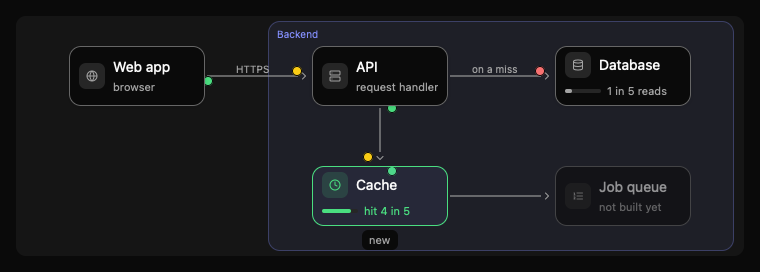
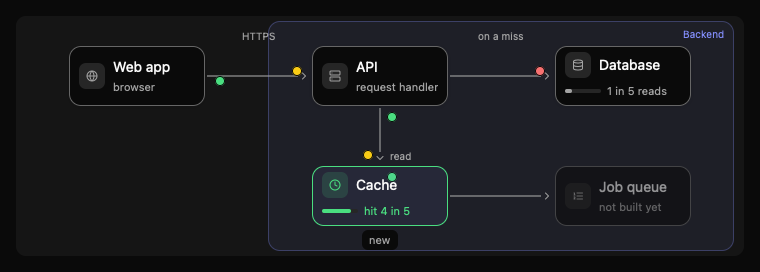
Fix the flow-diagram's link words, token speed, narrow cards and slanted flows
- Every link's word is drawn after the nodes, so no card covers it: above
  the two cards of a level link, beside an upright link near the card it
  points at. Before, an upright link drew no word. A group's label moves
  to its top right, clear of a level word on its left edge.
- A step of a flow is as long as the cells it crosses, so a `speed` in
  cells a second is the same in any grid.
- A card takes at most its size and never more than its cell; in a
  narrow cell its text is cut short, and the tooltip shows the name.
- A flow skips a slanted step, as the link is left out.

diff --git a/crates/moonframe-core/src/tests/flow_diagram.rs b/crates/moonframe-core/src/tests/flow_diagram.rs
@@ -36,16 +36,50 @@ fn keys(children: &[Node]) -> Vec<&str> {
         .collect()
 }
 
-/// The card of node `id`: the middle child of its keyed cell.
+/// The card of node `id`: inside the middle row of its keyed cell.
 fn card<'a>(children: &'a [Node], id: &str) -> &'a Stack {
     let cell = children.iter().find_map(|child| match child {
         Node::Stack(stack) if stack.key.as_deref() == Some(id) => Some(stack),
         _ => None,
     });
-    match cell.map(|cell| &cell.children[1]) {
+    let row = match cell.map(|cell| &cell.children[1]) {
+        Some(Node::Stack(row)) => row,
+        _ => panic!("no cell row for {id}"),
+    };
+    match row.children.first() {
         Some(Node::Stack(card)) => card,
         _ => panic!("no card for {id}"),
     }
+}
+
+/// Every text under `node`, in order.
+fn texts(node: &Node) -> Vec<String> {
+    match node {
+        Node::Text(text) => vec![text.text.clone()],
+        Node::Stack(stack) => stack.children.iter().flat_map(texts).collect(),
+        _ => Vec::new(),
+    }
+}
+
+/// Where each token's centre is, as fractions of the box.
+fn tokens(children: &[Node]) -> Vec<(f32, f32)> {
+    children
+        .iter()
+        .filter_map(|child| match child {
+            Node::Stack(stack) => {
+                let token = stack.children.iter().any(|inner| {
+                    matches!(inner, Node::Stack(dot)
+                        if dot.look.class.iter().any(|class| class == "flow-diagram-token"))
+                });
+                let area = stack.frame.area.as_ref()?;
+                if !token {
+                    return None;
+                }
+                Some((area.left? + 0.03, area.top? + 0.04))
+            },
+            _ => None,
+        })
+        .collect()
 }
 
 fn sent<'a>(card: &'a Stack, key: &str) -> Option<&'a str> {
@@ -84,4 +118,71 @@ fn flow_diagram_a_click_on_a_node_sends_its_id() {
     assert!(!card(&plain, "web").selected);
     let named = diagram(r#"event = "node""#);
     assert_eq!(sent(card(&named, "db"), "node"), Some("db"));
+}
+
+#[test]
+fn flow_diagram_draws_every_link_word_over_the_cards() {
+    let drawn = diagram(
+        r#"links = { { from = "web", to = "api", label = "HTTPS" }, { from = "api", to = "db", label = "SQL" } }"#,
+    );
+    // Both words come after the last card, so no card covers them, and the
+    // word of the upright link is drawn too.
+    let last_cell = drawn
+        .iter()
+        .rposition(|child| matches!(child, Node::Stack(stack) if stack.key.is_some()))
+        .unwrap();
+    let after: Vec<String> = drawn[last_cell + 1..].iter().flat_map(texts).collect();
+    assert_eq!(after, ["HTTPS", "SQL"]);
+}
+
+#[test]
+fn flow_diagram_token_speed_is_the_same_in_any_grid() {
+    // One token from `web` to `api`, neighbours: at 0.5 cells a second it
+    // is half way after one second, however many columns the grid has.
+    let flow =
+        r#"flows = { { path = { "web", "api" }, tokens = { "warning" } } }, time = 1, speed = 0.5"#;
+    for columns in [2.0_f32, 6.0] {
+        let drawn = diagram(&format!("{flow}, columns = {columns}"));
+        let [(x, _)] = tokens(&drawn)[..] else {
+            panic!("expected one token");
+        };
+        let (web, api) = (0.5 / columns, 1.5 / columns);
+        let along = (x - web) / (api - web);
+        assert!((along - 0.5).abs() < 0.01, "{columns} columns: {along}");
+    }
+}
+
+#[test]
+fn flow_diagram_a_card_never_takes_more_than_its_cell() {
+    let drawn = diagram("");
+    let web = card(&drawn, "web");
+    // No fixed width: it grows to its size at most, and narrows in a narrow cell.
+    assert_eq!(web.frame.width, None);
+    assert_eq!(web.frame.max_width, Some(136.0));
+    assert!(web.frame.grow);
+    let small = diagram(r#"size = "small""#);
+    assert_eq!(card(&small, "web").frame.max_width, Some(126.0));
+}
+
+#[test]
+fn flow_diagram_tokens_skip_a_slanted_step() {
+    let slanted =
+        diagram(r#"flows = { { path = { "web", "db" }, tokens = { "warning" } } }, time = 1"#);
+    assert!(
+        tokens(&slanted).is_empty(),
+        "no token on a link that is left out"
+    );
+    // `web` to `db` is slanted and left out; `db` to `api` is upright, in
+    // column 1 of 2: every token stays on it.
+    let mixed = diagram(
+        r#"flows = { { path = { "web", "db", "api" }, tokens = { "warning", "danger", "success" } } }, time = 0.3"#,
+    );
+    let drawn = tokens(&mixed);
+    assert_eq!(drawn.len(), 3);
+    for (x, _) in drawn {
+        assert!(
+            (x - 0.75).abs() < 0.001,
+            "a token left the upright link: {x}"
+        );
+    }
 }

diff --git a/.claude/skills/moonframe-components/SKILL.md b/.claude/skills/moonframe-components/SKILL.md
@@ -1721,19 +1721,19 @@ file_icon { name = "app.go" }
 | --- | --- |
 | `columns` | the grid's width in cells (default: what the nodes use) |
 | `event` | key of the message a click on a node sends, default "select": { select = id } |
-| `flows` | { path = { ids }, tokens = { tones }, lane? }: one token for each tone, spread along the path; `lane` (-1, 0, 1) keeps two flows on one link apart |
-| `groups` | { label, nodes = { ids } }: a tinted box around the cells of its nodes |
+| `flows` | { path = { ids }, tokens = { tones }, lane? }: one token for each tone, spread along the path, skipping a slanted step; `lane` (-1, 0, 1) keeps two flows on one link apart |
+| `groups` | { label, nodes = { ids } }: a tinted box around the cells of its nodes, its label at the top right |
 | `height` | pixels (default 120 for each row) |
-| `links` | { from, to, label? }: two nodes in one row or one column (a slanted link is left out); the head points at `to` |
+| `links` | { from, to, label? }: two nodes in one row or one column (a slanted link is left out); the head points at `to`; `label` shows above a level link and beside an upright one |
 | `nodes` | { id, label, sublabel?, icon?, col, row, tone?, note?, meter? = { text, level?, tone? }, planned? }: `col` and `row` count from 0; `tone` is accent \| success \| warning \| danger |
 | `rows` | the grid's height in cells (default: what the nodes use) |
 | `selected` | the id of the node to show as picked |
-| `size` | small \| normal: the size of a node |
-| `speed` | how far a token goes each second, in cells (default 0.55) |
+| `size` | small \| normal: the most a node takes. In a narrow cell it narrows to fit and cuts its name short (the tooltip shows it whole); below about 170 pixels a column, a level link between neighbours hides under the cards, and only its word shows |
+| `speed` | how far a token goes each second, in cells along its path (default 0.55): the same in any grid |
 | `time` | seconds: where the tokens are. The caller owns the clock |
 | `to` | mod to send the click to, if not the drawing one |
 
-**Styles:** `.flow-diagram` `.flow-diagram-fill-accent` `.flow-diagram-fill-danger` `.flow-diagram-fill-plain` `.flow-diagram-fill-success` `.flow-diagram-fill-warning` `.flow-diagram-group` `.flow-diagram-group-label` `.flow-diagram-head` `.flow-diagram-icon` `.flow-diagram-icon-accent` `.flow-diagram-icon-danger` `.flow-diagram-icon-success` `.flow-diagram-icon-warning` `.flow-diagram-label` `.flow-diagram-line` `.flow-diagram-link-label` `.flow-diagram-meter` `.flow-diagram-meter-text` `.flow-diagram-node` `.flow-diagram-node:hover` `.flow-diagram-node:selected` `.flow-diagram-node-accent` `.flow-diagram-node-danger` `.flow-diagram-node-planned` `.flow-diagram-node-success` `.flow-diagram-node-warning` `.flow-diagram-note` `.flow-diagram-sublabel` `.flow-diagram-text-accent` `.flow-diagram-text-danger` `.flow-diagram-text-plain` `.flow-diagram-text-success` `.flow-diagram-text-warning` `.flow-diagram-token` `.flow-diagram-token-accent` `.flow-diagram-token-danger` `.flow-diagram-token-plain` `.flow-diagram-token-success` `.flow-diagram-token-warning` `.flow-diagram-top` `.flow-diagram-track`
+**Styles:** `.flow-diagram` `.flow-diagram-cell` `.flow-diagram-fill-accent` `.flow-diagram-fill-danger` `.flow-diagram-fill-plain` `.flow-diagram-fill-success` `.flow-diagram-fill-warning` `.flow-diagram-group` `.flow-diagram-group-label` `.flow-diagram-head` `.flow-diagram-icon` `.flow-diagram-icon-accent` `.flow-diagram-icon-danger` `.flow-diagram-icon-success` `.flow-diagram-icon-warning` `.flow-diagram-label` `.flow-diagram-line` `.flow-diagram-link-label` `.flow-diagram-link-label-side` `.flow-diagram-meter` `.flow-diagram-meter-text` `.flow-diagram-node` `.flow-diagram-node:hover` `.flow-diagram-node:selected` `.flow-diagram-node-accent` `.flow-diagram-node-danger` `.flow-diagram-node-planned` `.flow-diagram-node-success` `.flow-diagram-node-warning` `.flow-diagram-note` `.flow-diagram-sublabel` `.flow-diagram-text-accent` `.flow-diagram-text-danger` `.flow-diagram-text-plain` `.flow-diagram-text-success` `.flow-diagram-text-warning` `.flow-diagram-token` `.flow-diagram-token-accent` `.flow-diagram-token-danger` `.flow-diagram-token-plain` `.flow-diagram-token-success` `.flow-diagram-token-warning` `.flow-diagram-top` `.flow-diagram-track`
 
 ```lua
 local flow_diagram = use "flow-diagram"
